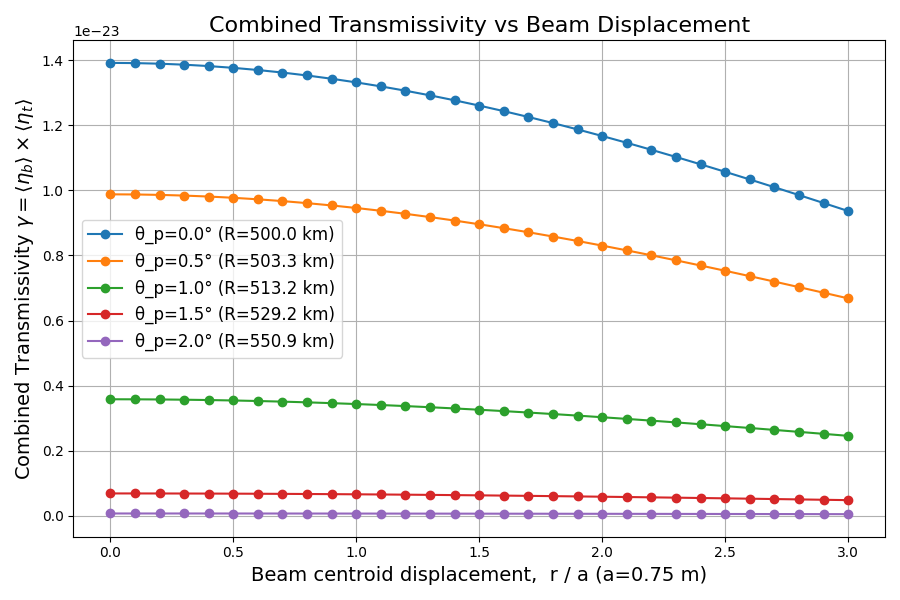
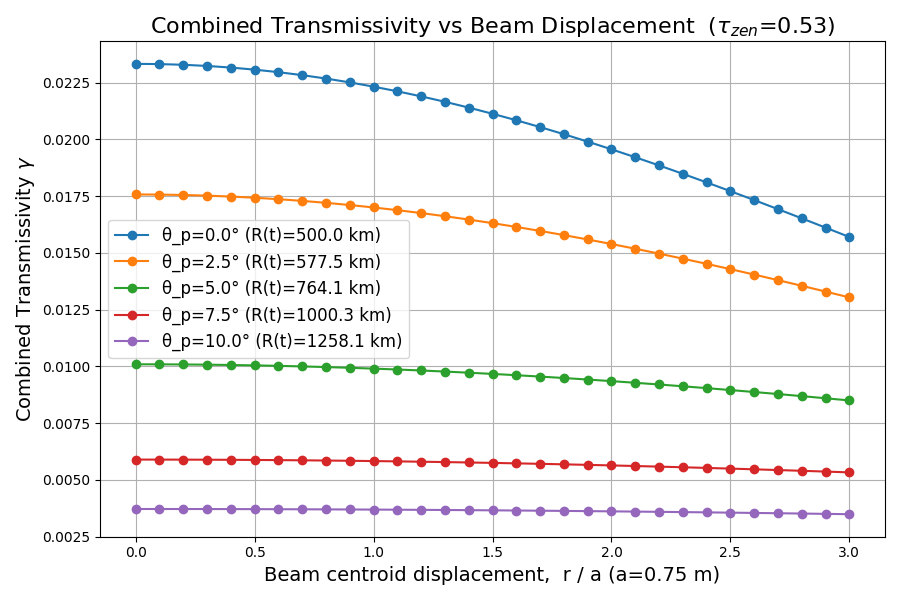
simulate the model for combined transmissivity

diff --git a/BB84/SimulationResult/Circle_beam/gamma_distance.py b/BB84/SimulationResult/Circle_beam/gamma_distance.py
@@ -5,55 +5,78 @@ import numpy as np
 simulation_path = os.path.abspath(os.path.join(os.path.dirname(__file__), '../../', 'Model'))
 sys.path.append(simulation_path)
 from circle_beam_transmissivity import transmissivity_etab, satellite_ground_distance, beam_waist, to_decimal_string
-
-from atmospheric_transmissivity import transmissivity_etat
+from atmospheric_transmissivity import atmospheric_transmittance
 
 
 a = 0.75                # Aparture radius
 G = 6.67430e-11         # Gravitational constant
 M_T = 5.972e24          # Earth's mass
 D_E = 6378e3            # Earth's radius (km)
-h_s = 500e3             # Satellite's altitude
+h_s = 400e3             # Satellite's altitude
 d_o = D_E + h_s
 omega = math.sqrt(G * M_T / d_o**3)
 T = 2 * math.pi / omega
-t = T * 0.0           # 周回時間
+t = T * 0.0             # 周回時間
+
+def calculate_theta_deg_from_Rt(R_t):
+    cos_theta = (D_E**2 + d_o**2 - R_t**2) / (2 * D_E * d_o)
+    
+    if abs(cos_theta) > 1:
+        raise ValueError("その距離は物理的に実現不可能です。値を確認してください。")
+
+    # θ_p [rad] → [deg]
+    theta_p_rad = math.acos(cos_theta)
+    theta_p_deg = math.degrees(theta_p_rad)
+    
+    return theta_p_deg
+
+
 
 def main():
     displacement = np.arange(0, 3.1, 0.1)
     r = [a * d for d in displacement]
 
-    theta_min = math.radians(0)
-    theta_max = math.radians(2)
-    theta_list = np.linspace(theta_min, theta_max, 5)
+    tau_zen_list = [0.91, 0.85, 0.75, 0.53]
 
-    t_list = [theta / omega for theta in theta_list]
+    # theta_min = 0
+    # theta_max = 10
+    # theta_list = np.linspace(theta_min, theta_max, 5)
 
     plt.figure(figsize=(9, 6))
 
-    for t in t_list:
-        # 距離 R(t)
-        R_t = satellite_ground_distance(h_s, t)
-        waist = beam_waist(h_s, t)
+    # for theta_deg in theta_list:
+    #     t = math.radians(theta_deg) / omega
+    #     waist = beam_waist(h_s, t)
         
-        # Transmissivity 計算
+    #     eta_b = [transmissivity_etab(a, r_val, waist) for r_val in r]
+    #     eta_t = atmospheric_transmittance(tau_zen, theta_deg)
+
+    #     R_t = satellite_ground_distance(h_s, t)
+
+    #     # transmissivity をパーセンテージ（%）に変換
+    #     gamma_percent = [eta_b_i * eta_t * 100 for eta_b_i in eta_b]
+
+    #     # グラフ描画
+    #     plt.plot(displacement, gamma_percent, marker='o', label=f'θ_p={theta_deg:.1f}° (R(t)={R_t/1e3:.1f} km)')
+
+    waist = 4
+    R_t = 400e3
+    theta_deg = calculate_theta_deg_from_Rt(R_t)
+    for tau_zen in tau_zen_list:
         eta_b = [transmissivity_etab(a, r_val, waist) for r_val in r]
-        eta_t = transmissivity_etat(R_t)
+        eta_t = atmospheric_transmittance(tau_zen, theta_deg)
+        gamma_percent = [eta_b_i * eta_t * 100 for eta_b_i in eta_b]
 
-        # gamma = eta_b * eta_t
-        gamma = [eta_b_i * eta_t for eta_b_i in eta_b]
-
-        theta_deg = omega * t * 180 / math.pi
-        plt.plot(displacement, gamma, marker='o', label=f'θ_p={theta_deg:.1f}° (R={R_t/1e3:.1f} km)')
+        plt.plot(displacement, gamma_percent, marker='o', label=fr'$\tau_{{zen}}$={tau_zen}')
 
     plt.xlabel(f"Beam centroid displacement,  r / a (a={a} m)", fontsize=14)
-    plt.ylabel(r"Combined Transmissivity $\gamma = \langle \eta_b \rangle \times \langle \eta_t \rangle$", fontsize=14)
-    plt.title("Combined Transmissivity vs Beam Displacement", fontsize=16)
+    plt.ylabel(r"Combined Transmissivity $\gamma$ [%]", fontsize=14)  # % に変更
+    plt.title(fr"Received Transmissivity vs Beam Displacement  ($\theta_\text{{zen}}$={theta_deg:.1f}°, LoS={R_t/1e3:.1f} km)", fontsize=16)
     plt.grid(True)
     plt.legend(fontsize=12)
     plt.tight_layout()
 
-    output_path = os.path.join(os.path.dirname(__file__), "gamma_distance.png")
+    output_path = os.path.join(os.path.dirname(__file__), "gamma_vs_displacement_percent.png")
     plt.savefig(output_path)
     print(f"✅ Save as: {output_path}")
     plt.show()
